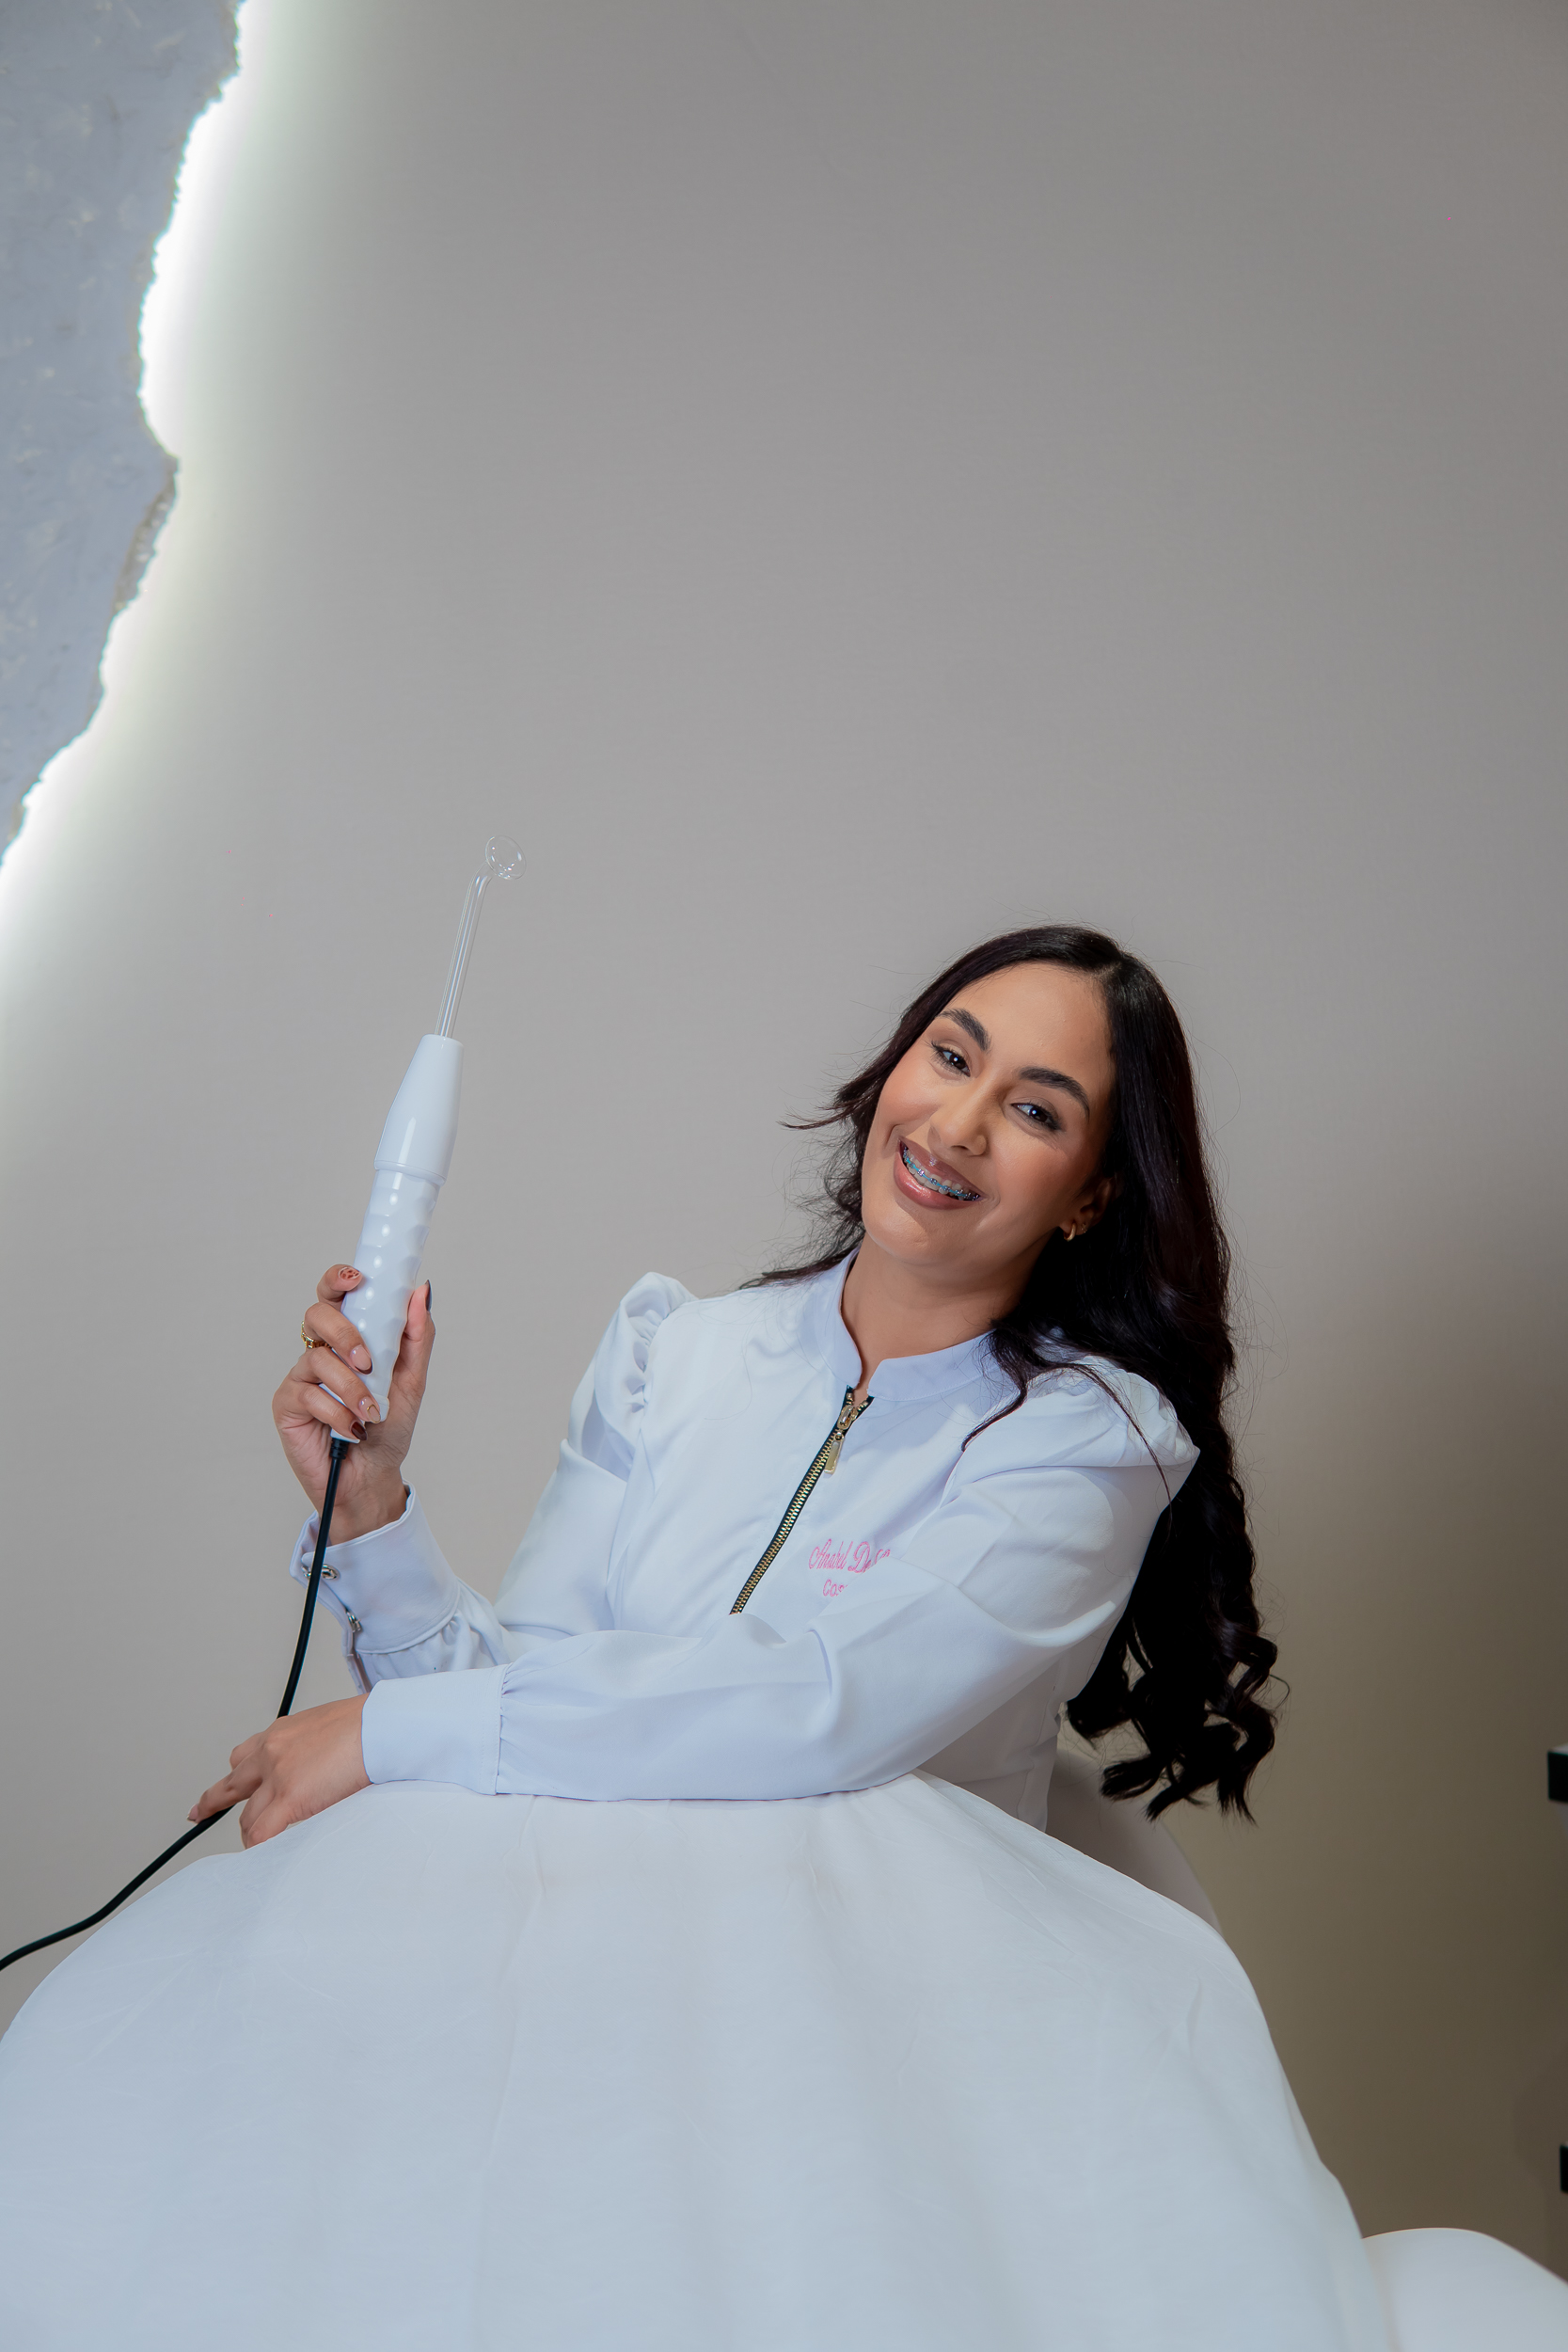
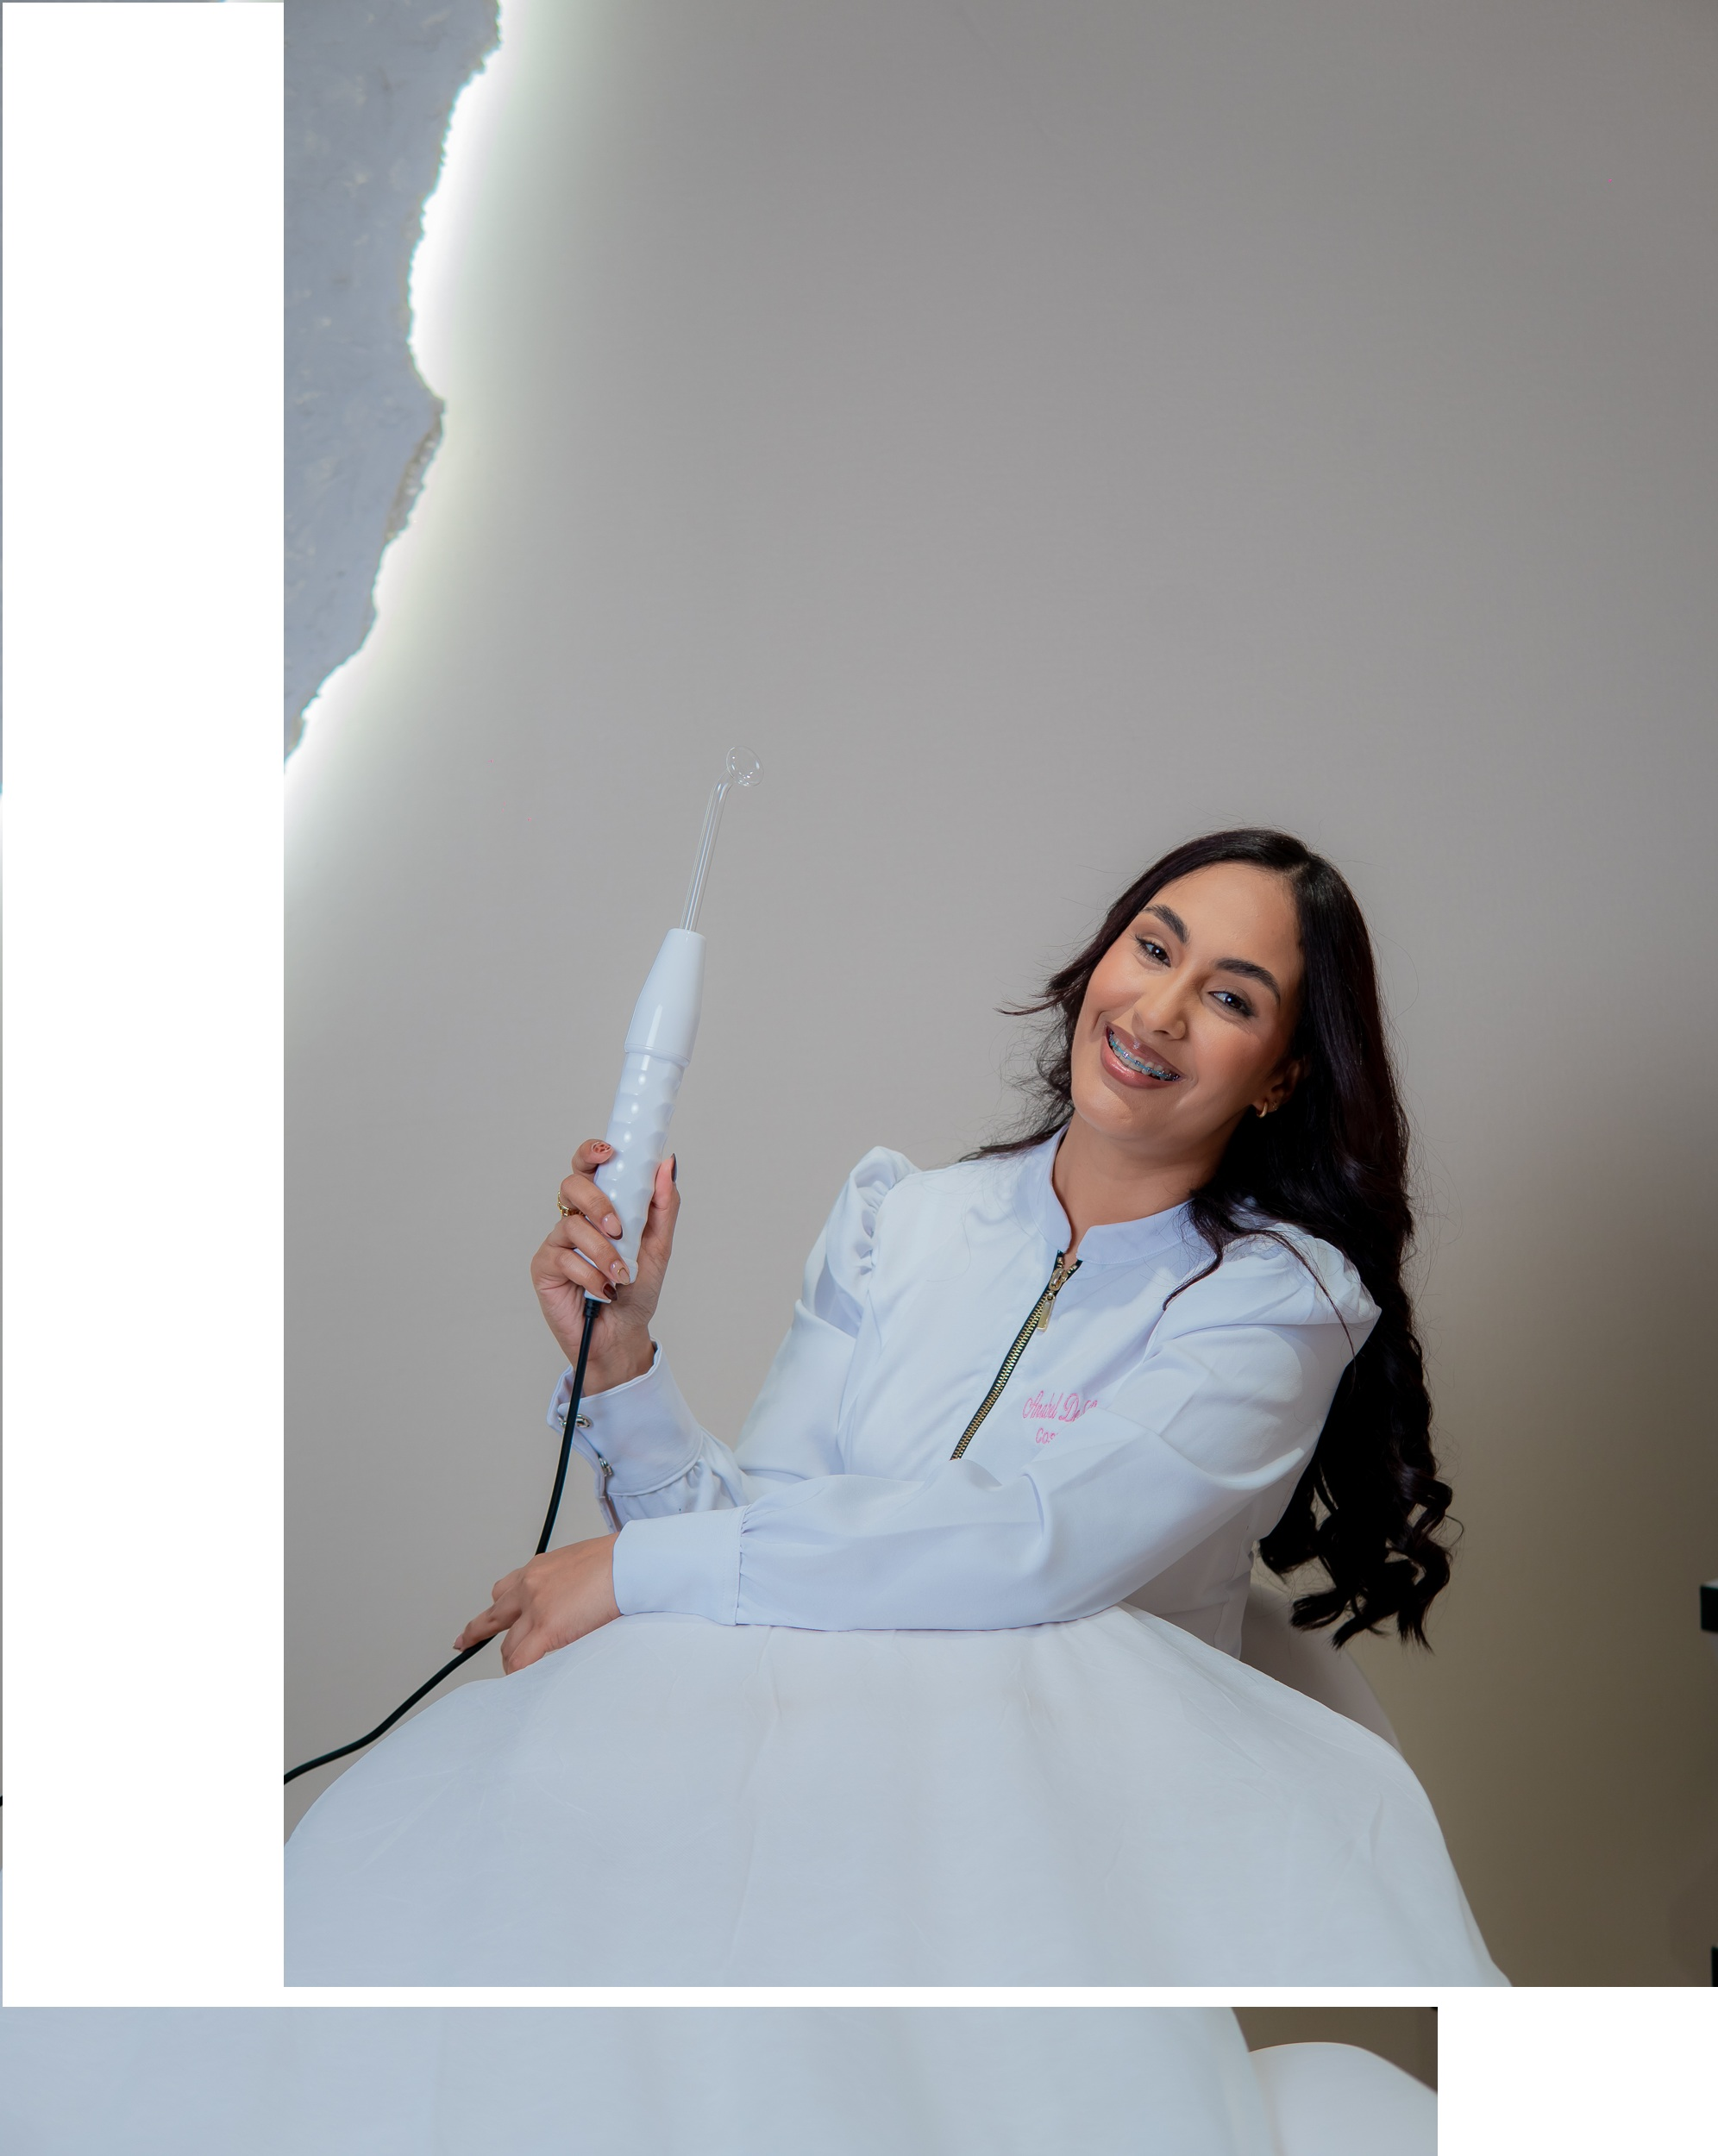
style: reordenar imagenes del carrusel del hero

diff --git a/vscode/src/components/Hero.tsx b/vscode/src/components/Hero.tsx
@@ -4,7 +4,7 @@ import './Hero.css';
 
 export default function Hero() {
   const [currentBg, setCurrentBg] = useState(0);
-  const bgImages = ['/lobby.jpg', '/lobby2.jpg', '/lobby3.jpg', '/as-07365.jpg', '/as-07387.jpg'];
+  const bgImages = ['/as-07365.jpg', '/lobby.jpg', '/lobby2.jpg', '/lobby3.jpg', '/as-07387.jpg'];
 
   useEffect(() => {
     const timer = setInterval(() => {